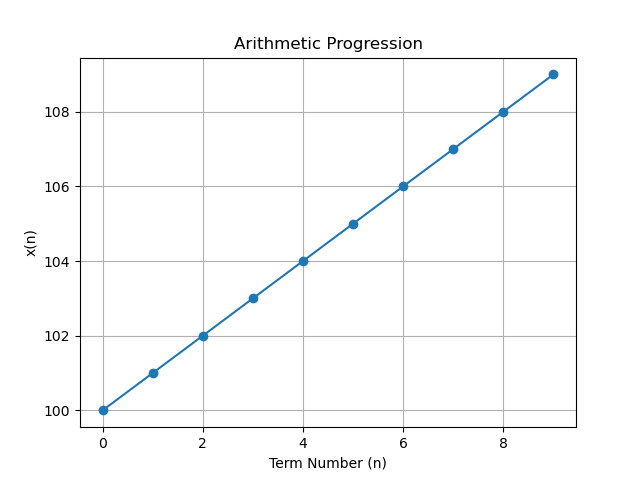
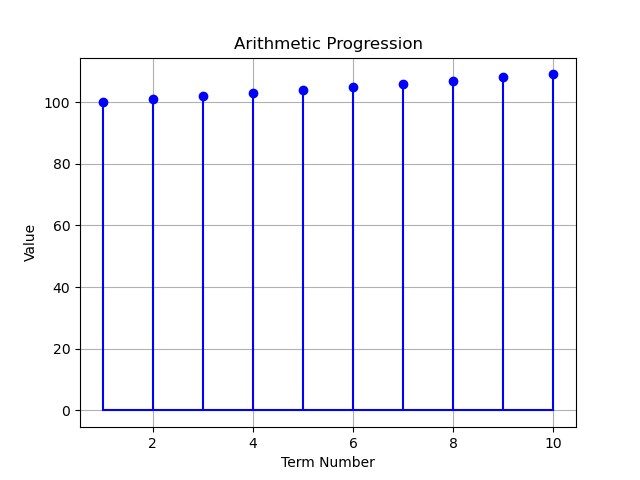
Add files via upload

diff --git a/assignment_2/codes/code.py b/assignment_2/codes/code.py
@@ -1,23 +1,16 @@
 import matplotlib.pyplot as plt
 
-# Function to generate arithmetic progression
-def generate_ap(start, common_diff, n):
-    ap = [start + i * common_diff for i in range(n)]
-    return ap
+filename = 'ap_data.txt'
 
-# Set the starting point, common difference, and number of terms
-start_value = 100
-common_difference = 1
-num_terms = 10  # You can adjust the number of terms as per your requirement
+# Read data from the file
+with open(filename, 'r') as file:
+    ap_sequence = [int(line.strip()) for line in file]
 
-# Generate arithmetic progression
-ap_sequence = generate_ap(start_value, common_difference, num_terms)
-
-# Plot the AP
-plt.plot(ap_sequence, marker='o', linestyle='-')
+# Plot the AP using a stem plot
+plt.stem(range(1, len(ap_sequence) + 1), ap_sequence, basefmt='b-', linefmt='b-', markerfmt='bo')
 plt.title('Arithmetic Progression')
-plt.xlabel('Term Number (n)')
-plt.ylabel('x(n)')
+plt.xlabel('Term Number')
+plt.ylabel('Value')
 plt.grid(True)
 plt.savefig('fig1.png')
 

diff --git a/assignment_2/codes/code1.c b/assignment_2/codes/code1.c
@@ -1,0 +1,27 @@
+#include <stdio.h>
+
+void generate_ap(int start, int common_diff, int n, const char *filename) {
+    FILE *file = fopen(filename, "w");
+    if (file == NULL) {
+        fprintf(stderr, "Error opening file for writing.\n");
+        return;
+    }
+
+    for (int i = 0; i < n; i++) {
+        fprintf(file, "%d\n", start + i * common_diff);
+    }
+
+    fclose(file);
+}
+
+int main() {
+    int start_value = 100;
+    int common_difference = 1;
+    int num_terms = 10;
+    const char *filename = "ap_data.txt";
+
+    generate_ap(start_value, common_difference, num_terms, filename);
+
+    return 0;
+}
+

diff --git a/assignment_2/assignment.tex b/assignment_2/assignment.tex
@@ -60,8 +60,6 @@
      x(n) &= \{x(0)+nd\}u(n) \\
      x(17)-x(10) &= 7\\
     \implies {x(0)+17d}-{x(0)+10d} &= 7\\
-    \implies 17d-10d &= 7\\
-    \implies 7d &= 7\\
     \implies d &= 1
  \end{align}
 
